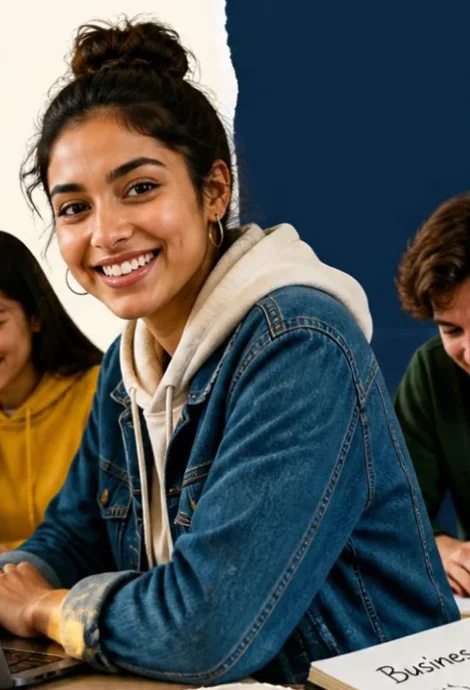
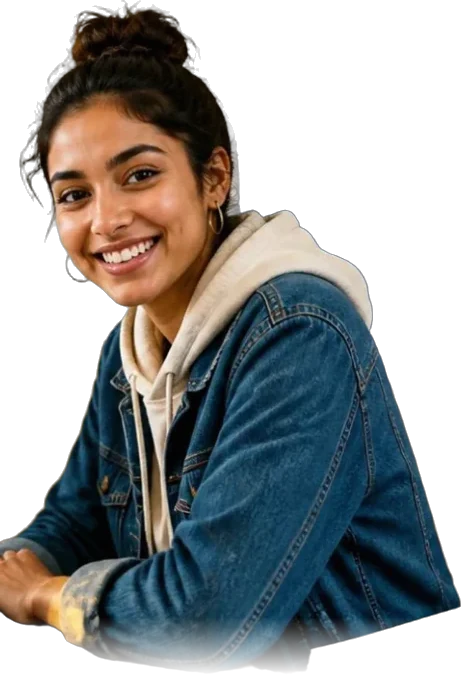
Remove photo backgrounds and show students as cut-outs
Backgrounds removed with rembg (BiRefNet). Photos now sit on soft
peach shapes with a drop shadow instead of rounded rectangles.

diff --git a/index.html b/index.html
@@ -181,7 +181,10 @@
     }
     @media (max-width: 860px) { .hero .wrap { grid-template-columns: 1fr; } }
     .hero-visual { position: relative; }
-    .hero-visual img { display: block; width: 100%; height: auto; aspect-ratio: 700/685; object-fit: cover; border-radius: 28px; box-shadow: var(--shadow); }
+    .hero-photo { position: relative; }
+    .hero-photo::before { content: ""; position: absolute; inset: 10% 3% 2%; border-radius: 48% 52% 40% 60% / 55% 45% 55% 45%; background: linear-gradient(140deg, var(--peach-200), var(--peach-400)); z-index: 0; }
+    .hero-visual img { position: relative; z-index: 1; display: block; width: 100%; height: auto; filter: drop-shadow(0 18px 24px rgba(120, 50, 20, .25)); }
+    .hero-visual .journey { z-index: 2; }
     .hero-visual .journey { position: absolute; left: -36px; bottom: -40px; width: min(290px, 80%); padding: 18px; border-radius: 20px; }
     .hero-visual .journey h2 { font-size: 1rem; margin-bottom: 10px; }
     .hero-visual .journey ol { gap: 6px; }
@@ -189,8 +192,10 @@
     .hero-visual .journey li b { width: 26px; height: 26px; font-size: .8rem; }
     @media (max-width: 860px) { .hero-visual .journey { position: static; width: auto; margin-top: 16px; } }
     .section-head.split { display: grid; grid-template-columns: .8fr 1.2fr; gap: 56px; align-items: center; }
-    .section-head.split img { width: 100%; height: auto; max-height: 520px; object-fit: cover; object-position: top; border-radius: 28px; box-shadow: var(--shadow); }
-    @media (max-width: 860px) { .section-head.split { grid-template-columns: 1fr; gap: 28px; } .section-head.split img { max-height: 380px; } }
+    .split-photo { position: relative; display: flex; justify-content: center; }
+    .split-photo::before { content: ""; position: absolute; left: 6%; right: 6%; bottom: 0; top: 14%; border-radius: 50% 50% 28px 28px; background: linear-gradient(160deg, var(--peach-200), var(--peach-400)); }
+    .split-photo img { position: relative; width: 100%; max-width: 420px; height: auto; filter: drop-shadow(0 18px 24px rgba(120, 50, 20, .25)); }
+    @media (max-width: 860px) { .section-head.split { grid-template-columns: 1fr; gap: 28px; } .split-photo img { max-width: 300px; } }
 
     /* Generic grids & cards */
     .grid { display: grid; gap: 22px; }
@@ -302,7 +307,7 @@
         </div>
       </div>
       <div class="hero-visual">
-        <img src="images/students-team.webp" width="700" height="685" alt="Group of students celebrating with high-fives around a table covered in business sketches and a cardboard prototype" fetchpriority="high">
+        <div class="hero-photo"><img src="images/students-team.webp" width="692" height="630" alt="Group of students celebrating with high-fives around a table covered in business sketches and a cardboard prototype" fetchpriority="high"></div>
       <aside class="journey" aria-labelledby="journey-title">
         <h2 id="journey-title">Your journey: Learn, Build, Launch</h2>
         <ol>
@@ -320,7 +325,7 @@
   <section id="program" aria-labelledby="challenges-title">
     <div class="wrap">
       <div class="section-head split">
-        <img src="images/student-founder.webp" width="470" height="690" loading="lazy" alt="Smiling student working on her business idea on a laptop alongside classmates">
+        <div class="split-photo"><img src="images/student-founder.webp" width="461" height="675" loading="lazy" alt="Smiling student working on her business idea on a laptop alongside classmates"></div>
         <div>
           <span class="eyebrow">Why Peachology</span>
           <h2 id="challenges-title">Starting a business while studying shouldn't feel impossible</h2>
